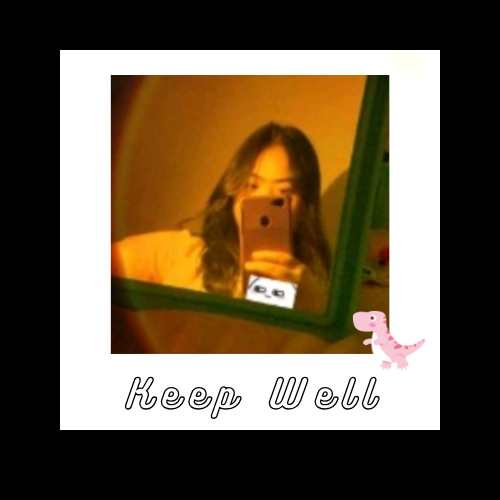
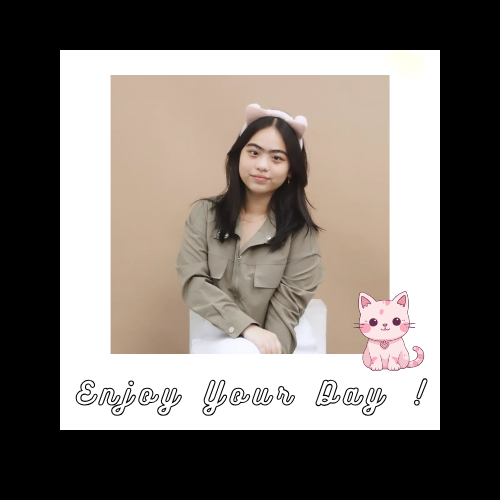
up 21-1

diff --git a/js/script.js b/js/script.js
@@ -182,9 +182,6 @@ function halamanFoto(){
             <div class="story-slide"><div class="polaroid"><img src="images/4.png"></div></div>
             <div class="story-slide"><div class="polaroid"><img src="images/5.png"></div></div>
             <div class="story-slide"><div class="polaroid"><img src="images/6.png"></div></div>
-            <div class="story-slide"><div class="polaroid"><img src="images/7.png"></div></div>
-            <div class="story-slide"><div class="polaroid"><img src="images/8.png"></div></div>
-
         </div>
         <button id="btnSongs">🎶 ➜</button>
 
